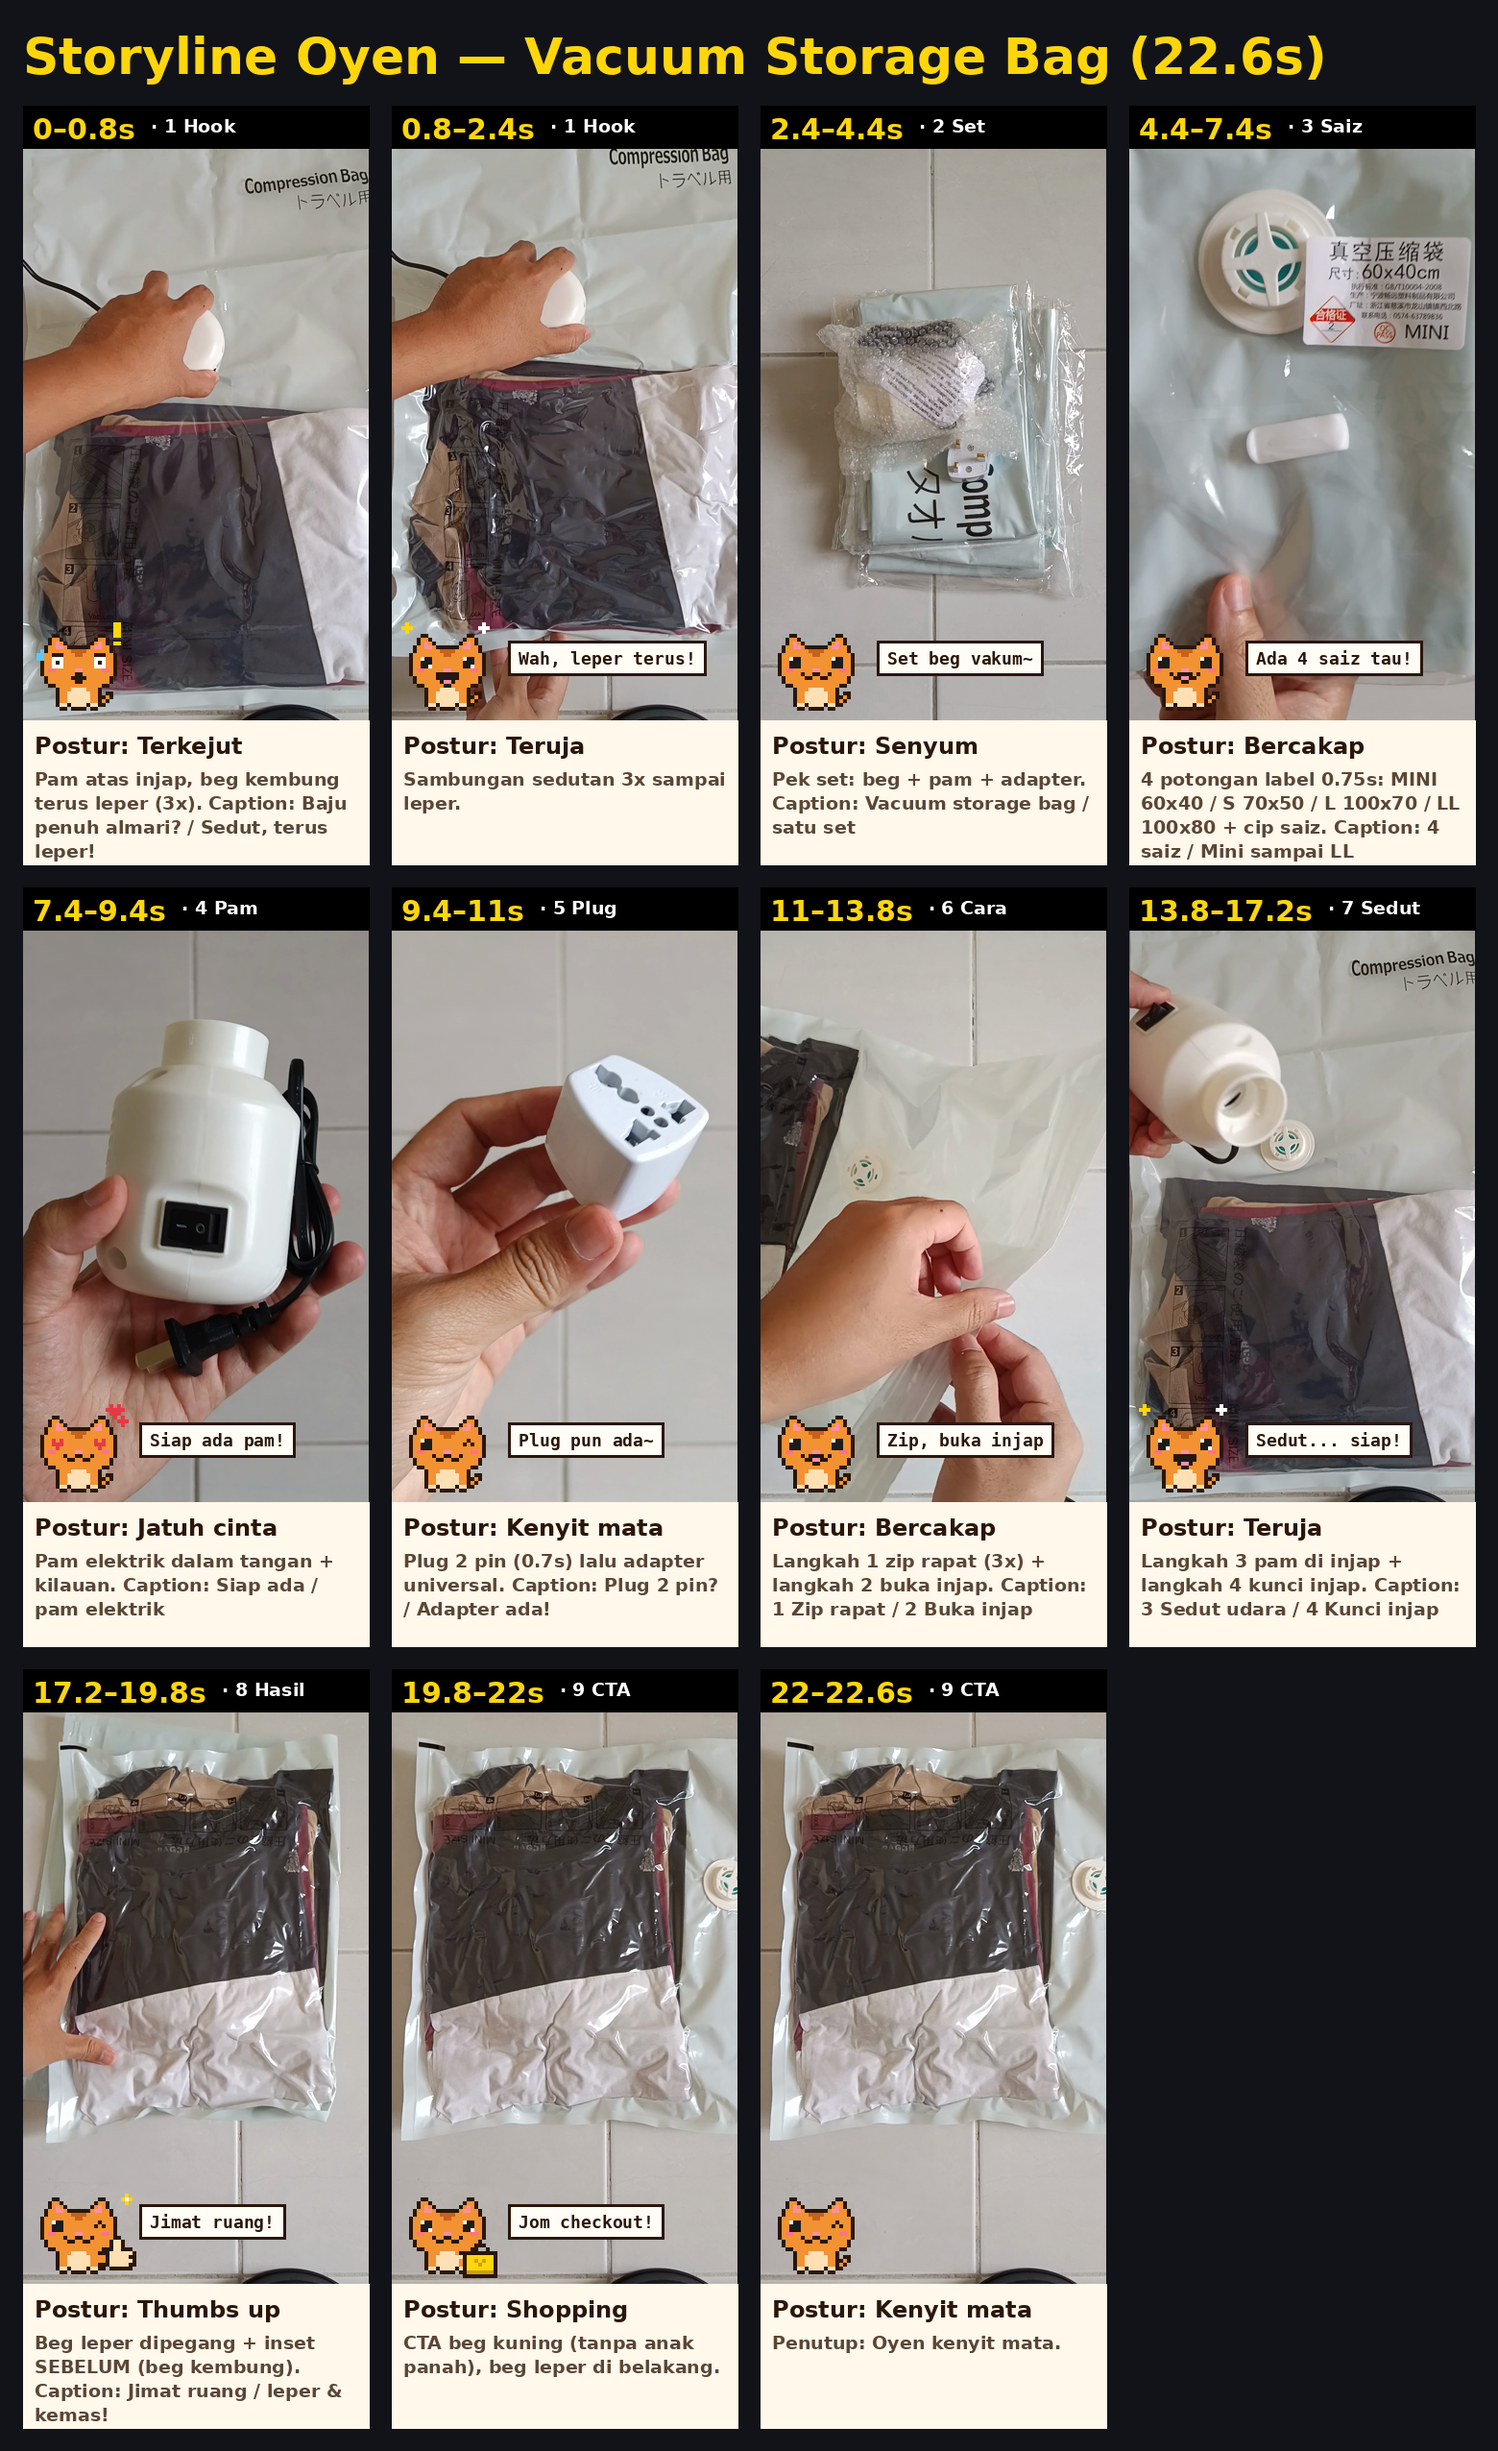
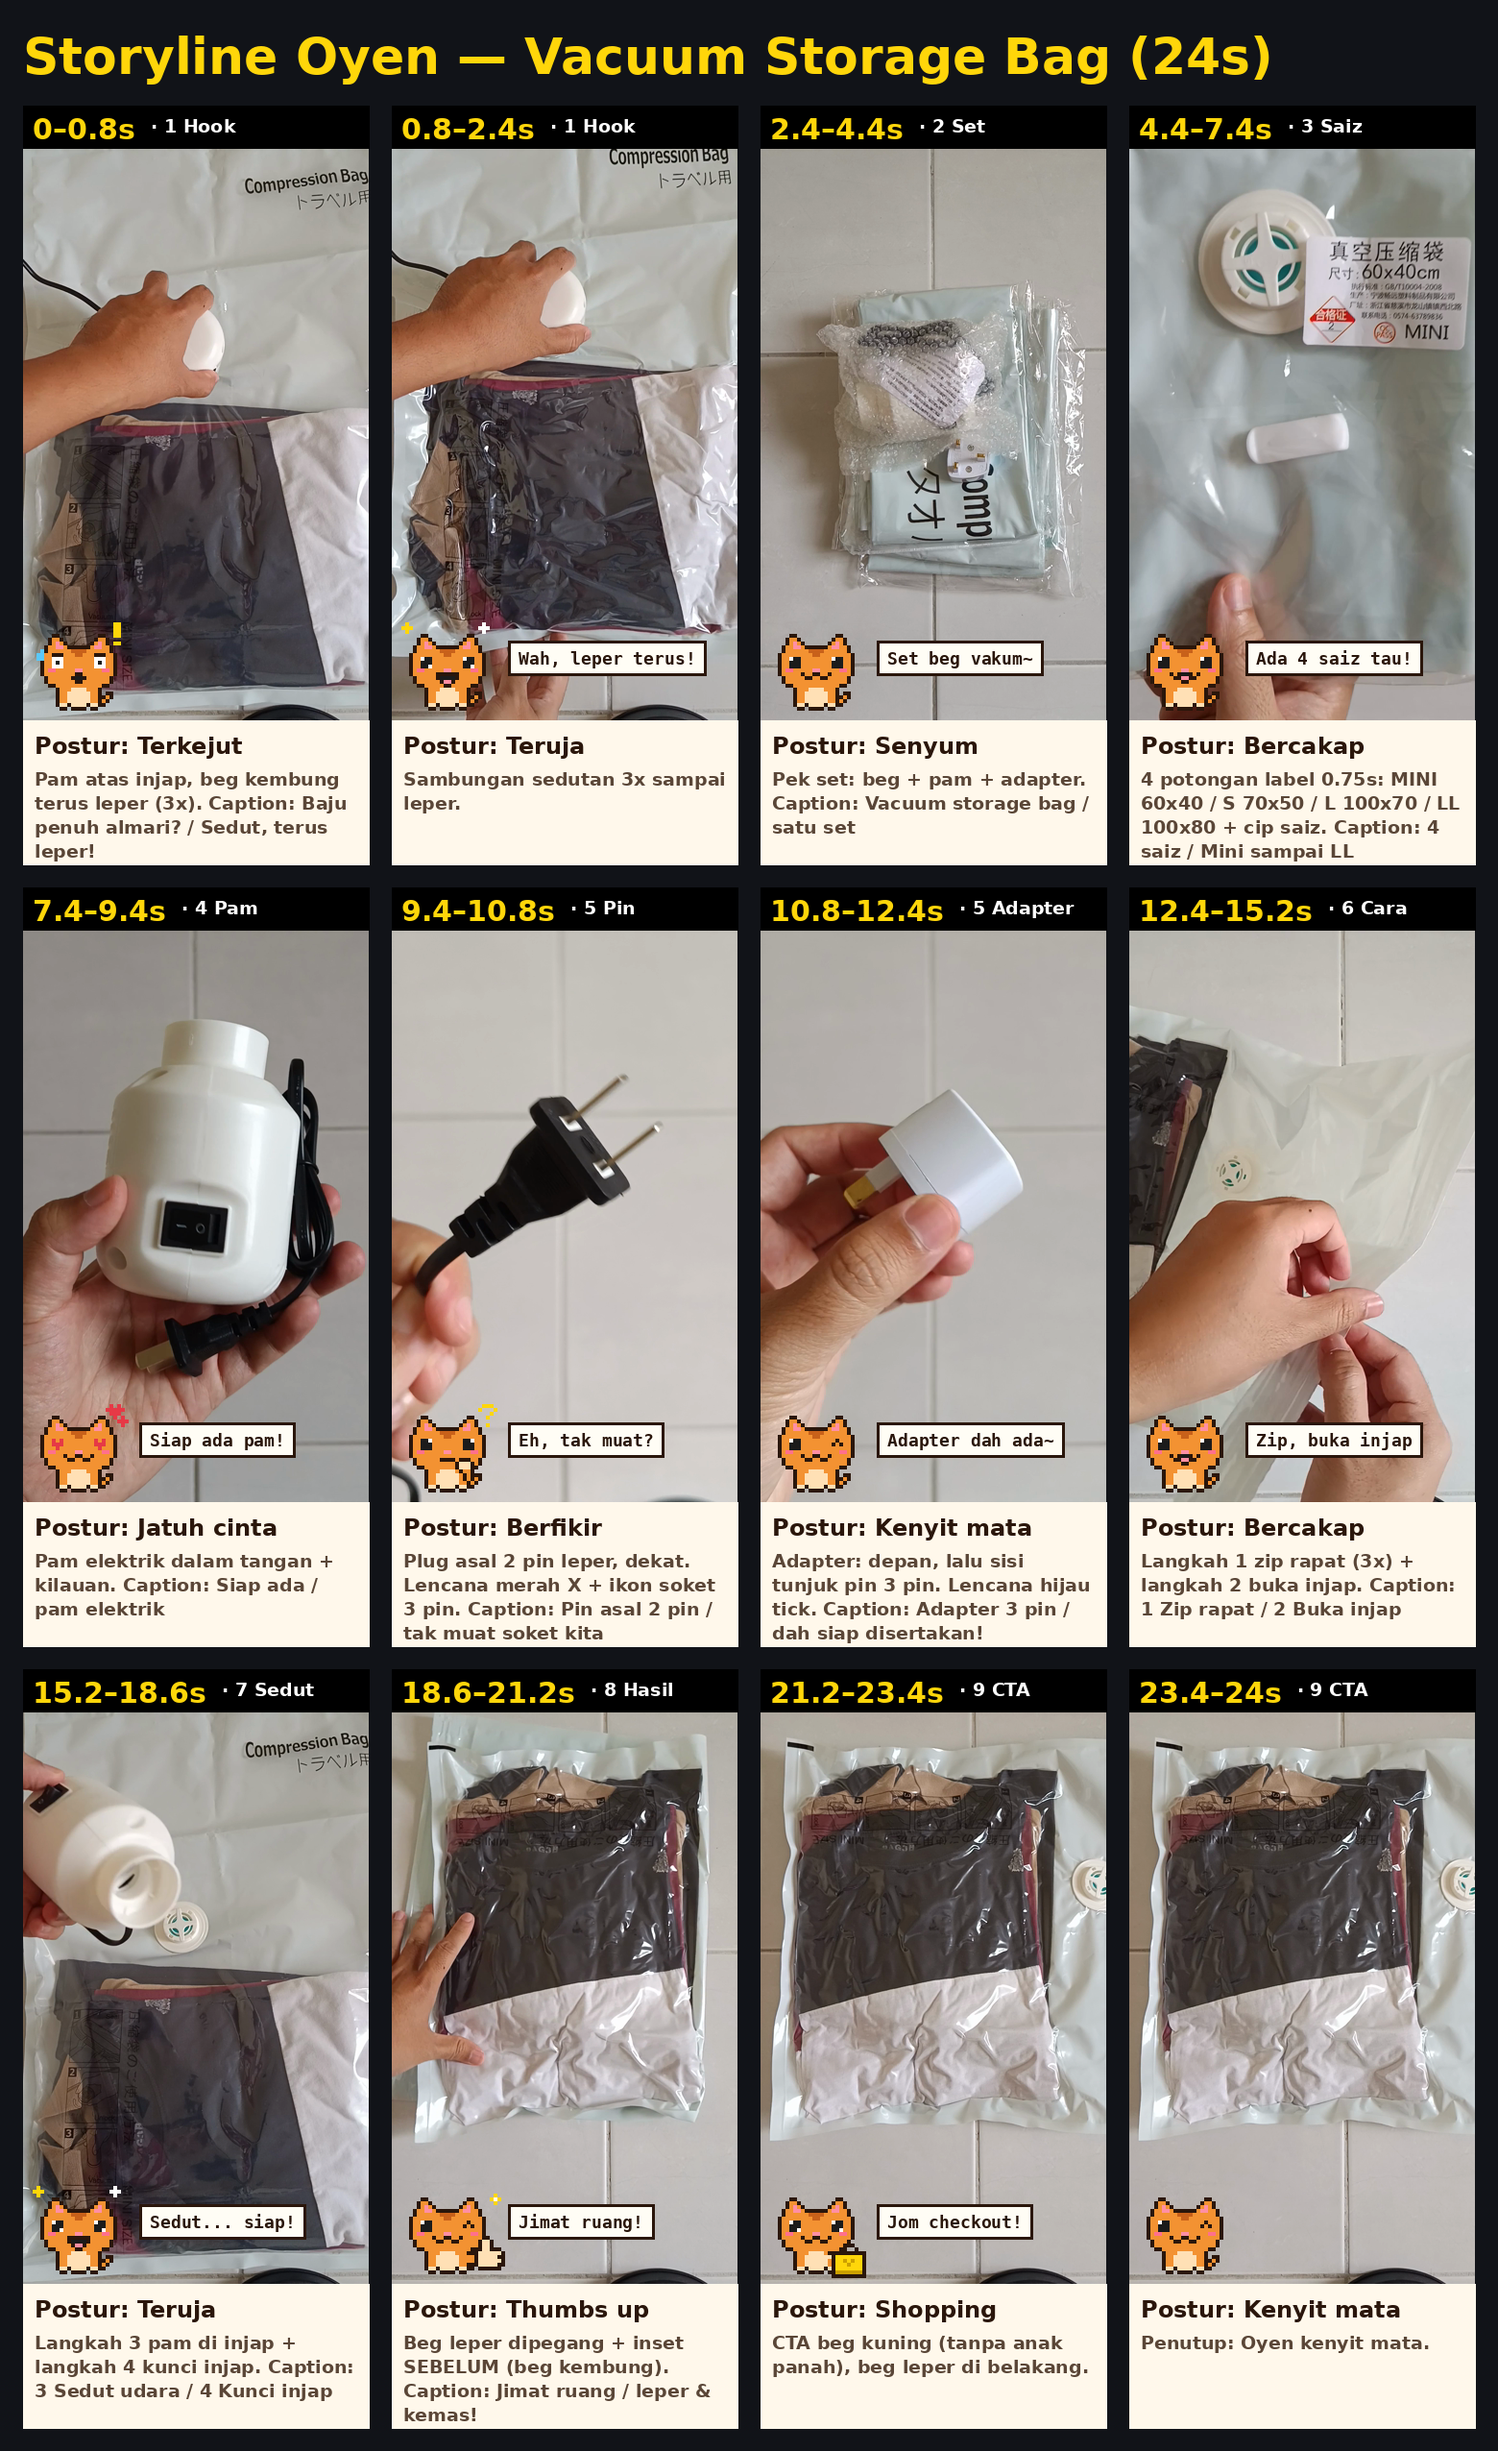
vacuum-storage-bag: add plug-mismatch + adapter-included scenes (24s)
Claude-Session: https://claude.ai/code/session_01FSFWWRvHpWTAnMm2R9b5o9

diff --git a/videos/vacuum-storage-bag/storyline.py b/videos/vacuum-storage-bag/storyline.py
@@ -1,18 +1,19 @@
-"""Oyen storyline for the vacuum storage bag set (~22.6s).
+"""Oyen storyline for the vacuum storage bag set (~24s).
 
 Footage: assets/source-portrait.mp4 = the 10 phone clips joined in order (camera
 sound removed). Clip offsets in the joined file:
   0.0   153051 set in its bag (bags + bubble-wrapped pump + adapter) 1-5.5
   8.27  153143 size labels: MINI 60x40 @1.0, S 70x50 @6.6, L 100x70 @12.6, LL 100x80 @18.0
   30.53 153226 unwrapping the pump 0-6.5
-  40.4  153248 universal plug adapter 0.5-2.5, pump in hand 7-11
+  40.4  153248 universal adapter 0.5-2.5 (front 0.5-1.2, side with its 3-pin prongs 1.2-2.1), pump in hand 7-11
   53.4  153521 bag front + valve 1-7.5, printed steps 1 Seal / 2 Unlock / 3 Vacuum / 4 Lock 8-11.5
-  66.87 153800 pump's 2-pin plug 1-4.5
+  66.87 153800 pump's flat 2-pin plug, steady 1.75-4.5
   71.6  154023 closing the zip seal 0-12
   84.5  154154 opening the valve on a full bag 0-3.9
   88.43 154256 pump on the valve 1-3, bag shrinks 3-10, lock 14.5-18, flat bag 19-41
   130.2 154356 full bag, valve, zipping 9-18, puffy bag 19-22.9
-Claims come from the labels/footage only: 4 sizes, pump + adapter in the set, the
+Claims come from the labels/footage only: 4 sizes, pump + adapter in the set, the pump's
+flat 2-pin plug (does not fit Malaysian 3-pin sockets, hence the adapter: user's point), the
 printed 4 steps, and the bag going flat on camera.
 
   python3 -m oyen storyboard videos/vacuum-storage-bag
@@ -21,7 +22,7 @@ printed 4 steps, and the bag going flat on camera.
 from oyen.storyline import Beat, Storyline
 
 STORYLINE = Storyline(
-    title="Vacuum Storage Bag (22.6s)",
+    title="Vacuum Storage Bag (24s)",
     source="assets/source-portrait.mp4",
     beats=[
         Beat(0.0, 0.8, "1 Hook", "Terkejut", None,
@@ -35,19 +36,23 @@ STORYLINE = Storyline(
              src=9.27),
         Beat(7.4, 9.4, "4 Pam", "Jatuh cinta", "Siap ada pam!",
              "Pam elektrik dalam tangan + kilauan. Caption: Siap ada / pam elektrik", src=48.4),
-        Beat(9.4, 11.0, "5 Plug", "Kenyit mata", "Plug pun ada~",
-             "Plug 2 pin (0.7s) lalu adapter universal. Caption: Plug 2 pin? / Adapter ada!", src=41.4),
-        Beat(11.0, 13.8, "6 Cara", "Bercakap", "Zip, buka injap",
+        Beat(9.4, 10.8, "5 Pin", "Berfikir", "Eh, tak muat?",
+             "Plug asal 2 pin leper, dekat. Lencana merah X + ikon soket 3 pin. Caption: Pin asal 2 pin / tak muat soket kita",
+             src=69.6),
+        Beat(10.8, 12.4, "5 Adapter", "Kenyit mata", "Adapter dah ada~",
+             "Adapter: depan, lalu sisi tunjuk pin 3 pin. Lencana hijau tick. Caption: Adapter 3 pin / dah siap disertakan!",
+             src=41.9),
+        Beat(12.4, 15.2, "6 Cara", "Bercakap", "Zip, buka injap",
              "Langkah 1 zip rapat (3x) + langkah 2 buka injap. Caption: 1 Zip rapat / 2 Buka injap", src=141.5),
-        Beat(13.8, 17.2, "7 Sedut", "Teruja", "Sedut... siap!",
+        Beat(15.2, 18.6, "7 Sedut", "Teruja", "Sedut... siap!",
              "Langkah 3 pam di injap + langkah 4 kunci injap. Caption: 3 Sedut udara / 4 Kunci injap", src=89.6),
-        Beat(17.2, 19.8, "8 Hasil", "Thumbs up", "Jimat ruang!",
+        Beat(18.6, 21.2, "8 Hasil", "Thumbs up", "Jimat ruang!",
              "Beg leper dipegang + inset SEBELUM (beg kembung). Caption: Jimat ruang / leper & kemas!", src=112.4),
-        Beat(19.8, 22.0, "9 CTA", "Shopping", "Jom checkout!",
+        Beat(21.2, 23.4, "9 CTA", "Shopping", "Jom checkout!",
              "CTA beg kuning (tanpa anak panah), beg leper di belakang.", src=127.0),
-        Beat(22.0, 22.6, "9 CTA", "Kenyit mata", None,
+        Beat(23.4, 24.0, "9 CTA", "Kenyit mata", None,
              "Penutup: Oyen kenyit mata.", src=128.0),
     ],
-    blinks=[3.4, 12.6],
-    jumps=[0.8, 17.2],
+    blinks=[3.4, 14.0],
+    jumps=[0.8, 18.6],
 )

diff --git a/videos/vacuum-storage-bag/storyboard/STORYLINE.md b/videos/vacuum-storage-bag/storyboard/STORYLINE.md
@@ -1,4 +1,4 @@
-# Storyline Oyen — Vacuum Storage Bag (22.6s)
+# Storyline Oyen — Vacuum Storage Bag (24s)
 
 Generated by `python3 -m oyen storyboard` from `storyline.py`; edit that file, not this one.
 
@@ -9,13 +9,14 @@ Generated by `python3 -m oyen storyboard` from `storyline.py`; edit that file, n
 | 2.40–4.40 | 2 Set | Senyum | Set beg vakum~ | Pek set: beg + pam + adapter. Caption: Vacuum storage bag / satu set |
 | 4.40–7.40 | 3 Saiz | Bercakap | Ada 4 saiz tau! | 4 potongan label 0.75s: MINI 60x40 / S 70x50 / L 100x70 / LL 100x80 + cip saiz. Caption: 4 saiz / Mini sampai LL |
 | 7.40–9.40 | 4 Pam | Jatuh cinta | Siap ada pam! | Pam elektrik dalam tangan + kilauan. Caption: Siap ada / pam elektrik |
-| 9.40–11.00 | 5 Plug | Kenyit mata | Plug pun ada~ | Plug 2 pin (0.7s) lalu adapter universal. Caption: Plug 2 pin? / Adapter ada! |
-| 11.00–13.80 | 6 Cara | Bercakap | Zip, buka injap | Langkah 1 zip rapat (3x) + langkah 2 buka injap. Caption: 1 Zip rapat / 2 Buka injap |
-| 13.80–17.20 | 7 Sedut | Teruja | Sedut... siap! | Langkah 3 pam di injap + langkah 4 kunci injap. Caption: 3 Sedut udara / 4 Kunci injap |
-| 17.20–19.80 | 8 Hasil | Thumbs up | Jimat ruang! | Beg leper dipegang + inset SEBELUM (beg kembung). Caption: Jimat ruang / leper & kemas! |
-| 19.80–22.00 | 9 CTA | Shopping | Jom checkout! | CTA beg kuning (tanpa anak panah), beg leper di belakang. |
-| 22.00–22.60 | 9 CTA | Kenyit mata | — | Penutup: Oyen kenyit mata. |
+| 9.40–10.80 | 5 Pin | Berfikir | Eh, tak muat? | Plug asal 2 pin leper, dekat. Lencana merah X + ikon soket 3 pin. Caption: Pin asal 2 pin / tak muat soket kita |
+| 10.80–12.40 | 5 Adapter | Kenyit mata | Adapter dah ada~ | Adapter: depan, lalu sisi tunjuk pin 3 pin. Lencana hijau tick. Caption: Adapter 3 pin / dah siap disertakan! |
+| 12.40–15.20 | 6 Cara | Bercakap | Zip, buka injap | Langkah 1 zip rapat (3x) + langkah 2 buka injap. Caption: 1 Zip rapat / 2 Buka injap |
+| 15.20–18.60 | 7 Sedut | Teruja | Sedut... siap! | Langkah 3 pam di injap + langkah 4 kunci injap. Caption: 3 Sedut udara / 4 Kunci injap |
+| 18.60–21.20 | 8 Hasil | Thumbs up | Jimat ruang! | Beg leper dipegang + inset SEBELUM (beg kembung). Caption: Jimat ruang / leper & kemas! |
+| 21.20–23.40 | 9 CTA | Shopping | Jom checkout! | CTA beg kuning (tanpa anak panah), beg leper di belakang. |
+| 23.40–24.00 | 9 CTA | Kenyit mata | — | Penutup: Oyen kenyit mata. |
 
-Kelip mata: 3.4s, 12.6s · Lompat: 0.8s, 17.2s
+Kelip mata: 3.4s, 14s · Lompat: 0.8s, 18.6s
 
-Postur tidak digunakan: Berfikir, Tidur, Layan lagu, Makan
+Postur tidak digunakan: Tidur, Layan lagu, Makan
